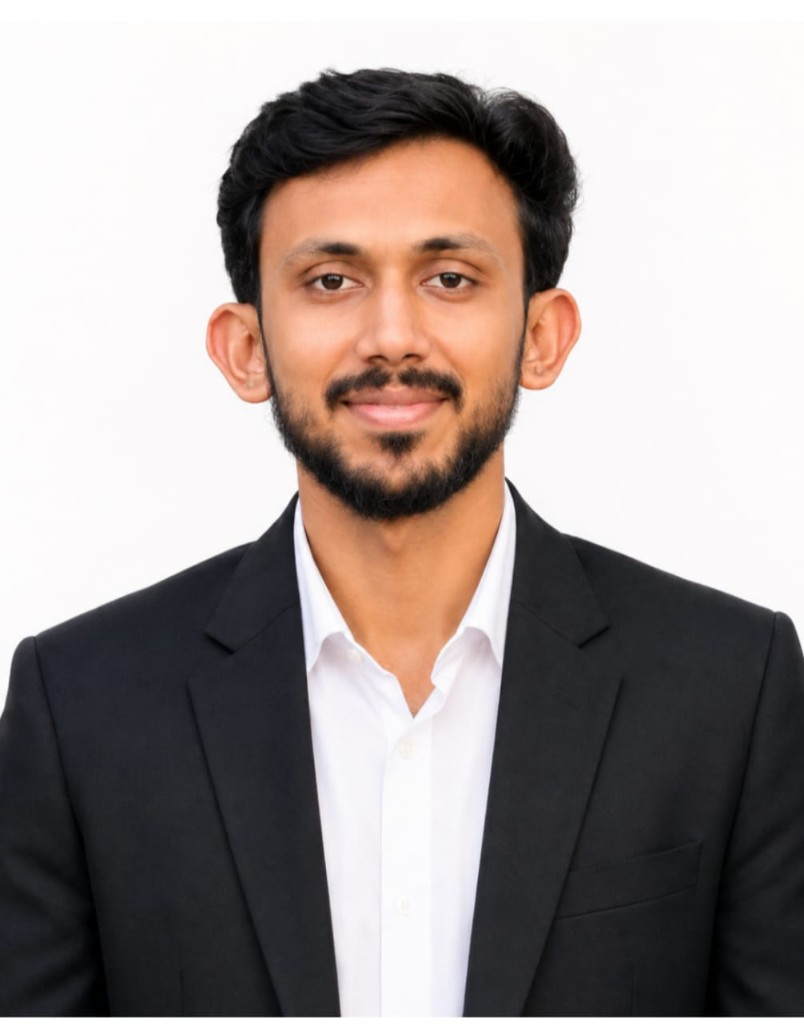
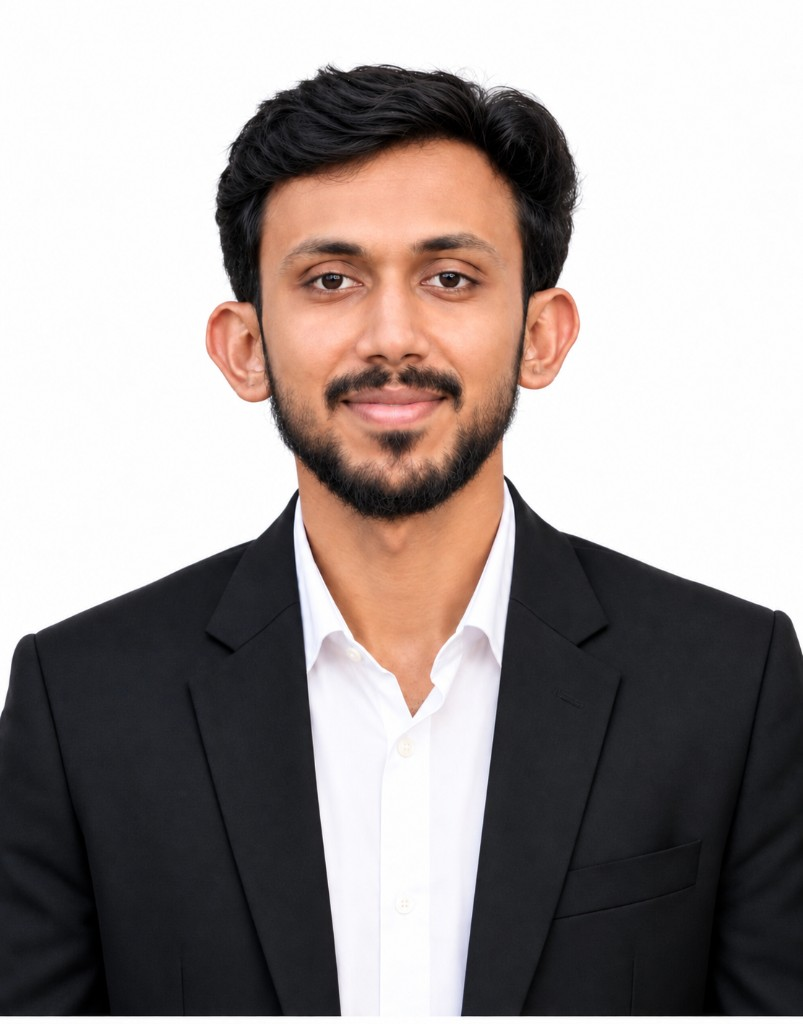
Update founder photo on About page.
Replace Deepak Patil headshot with the new professional portrait.

diff --git a/src/pages/Company.tsx b/src/pages/Company.tsx
@@ -106,7 +106,7 @@ export function About() {
                 <img
                   src="/about/deepak-patil.jpg"
                   alt="Deepak Patil, founder of Constrange"
-                  width={804}
+                  width={803}
                   height={1024}
                   loading="eager"
                   decoding="async"
